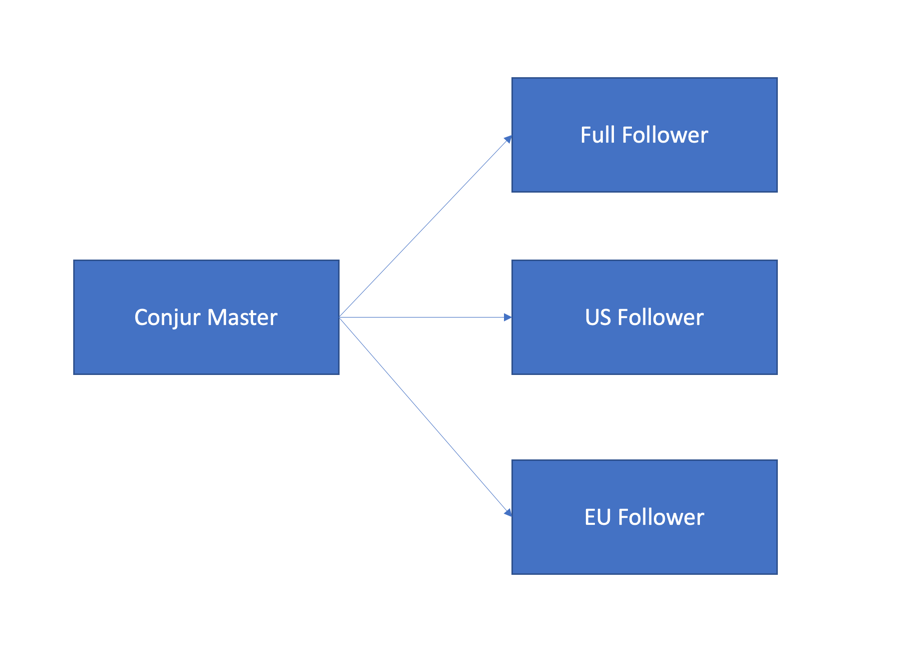
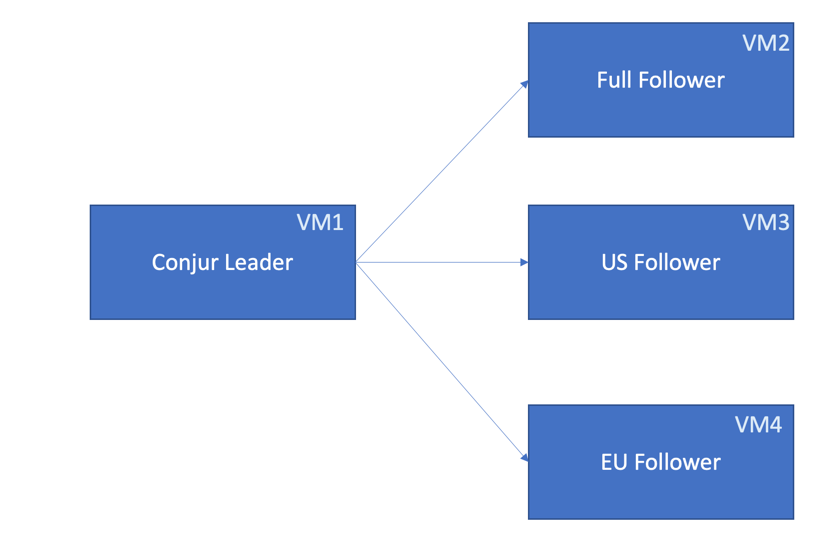
samples update

Changed region(s): [[0.0622, 0.3542, 0.9641, 0.5904], [0.5287, 0.679, 0.9641, 0.9742], [0.5598, 0.0295, 0.9641, 0.2952]]

diff --git a/README.md b/README.md
@@ -1,12 +1,18 @@
 # Demo script for the selective replication
 
+## How replication Sets works ?
+
+![](replication-set.png)
+
+
 ## Demo Architecture
 
 ![](archi.png)
 
 ## Pre-requisites
 - Last version of the conjur binary uploaded to the target servers
-- Conjur-cli
+- conjur-cli
+- docker or podman installed
 - Clone this git repository
 
 ## Create Conjur Master
@@ -41,10 +47,9 @@ podman exec conjur-leader evoke replication-set list
 ```
 
 ## Add secrets to replication Sets
-- Run:
+- Create the US policy replication Set:
 ```shell
 conjur policy load -b root -f permit-us-replication.yaml
-conjur policy load -b root -f permit-eu-replication.yaml
 ```
 
 - List resources that would replicate the data for us region:
@@ -60,6 +65,11 @@ WHERE is_role_allowed_to(
 resource_id
 );"
 '
+```
+
+- Create the EU policy replication Set:
+```shell
+conjur policy load -b root -f permit-eu-replication.yaml
 ```
 
 - List resources that would replicate the data for eu region:
@@ -95,21 +105,18 @@ resource_id
 ## Check the replicated secrets 
 - Run in FULL follower node:
 ```shell
-conjur init --s --url https://conjur-follower-full.demo.cybr --account deutsche-telekom
-conjur login -i admin -p MySecretP@ss1
-conjur list
+./init-conjur-cli.sh
+conjur list --kind variable
 ```
 
 - Run in US follower node:
 ```shell
-conjur init --s --url https://conjur-follower-us.demo.cybr --account deutsche-telekom
-conjur login -i admin -p MySecretP@ss1
-conjur list
+./init-conjur-cli.sh
+conjur list --kind variable
 ```
 
 - Run in EU follower node:
 ```shell
-conjur init --s --url https://conjur-follower-eu.demo.cybr --account deutsche-telekom
-conjur login -i admin -p MySecretP@ss1
-conjur list
+./init-conjur-cli.sh
+conjur list --kind variable
 ```
